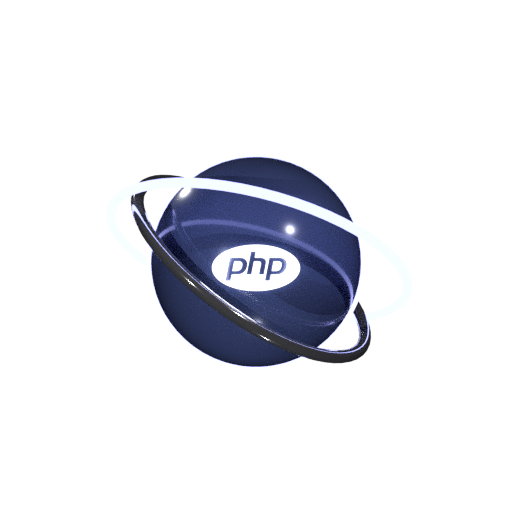
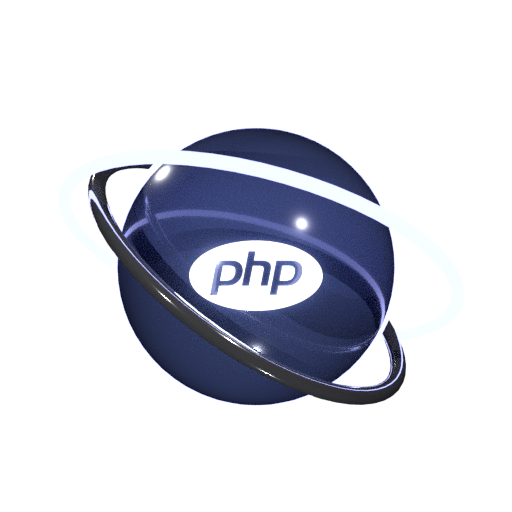
feat(orrery): scale up 3d planet assets and dom nodes for grander visibility

Changed region(s): [[0.1562, 0.25, 0.8125, 0.8125]]

diff --git a/resources/js/orrery-gallery.js b/resources/js/orrery-gallery.js
@@ -211,8 +211,8 @@ export const initOrreryGallery = () => {
         btn.type = 'button';
         btn.className = 'orrery-node group absolute rounded-full cursor-pointer transition-transform duration-300 focus:outline-none select-none';
         btn.setAttribute('aria-label', `Fokus teknologi ${tech.name}`);
-        btn.style.width = '70px';
-        btn.style.height = '70px';
+        btn.style.width = '88px';
+        btn.style.height = '88px';
         btn.style.transform = 'translate(-50%, -50%)';
 
         btn.innerHTML = `
@@ -254,25 +254,25 @@ export const initOrreryGallery = () => {
         centerX = stageWidth / 2;
         if (stageWidth < 480) {
             orbitWidth = stageWidth * 0.44;
-            orbitHeight = 120;
+            orbitHeight = 125;
             centerY = stageHeight * 0.44;
         } else if (stageWidth < 768) {
             orbitWidth = stageWidth * 0.42;
-            orbitHeight = 135;
+            orbitHeight = 138;
             centerY = stageHeight * 0.44;
         } else if (stageWidth < 1024) {
             orbitWidth = Math.min(390, stageWidth * 0.38);
-            orbitHeight = 145;
+            orbitHeight = 148;
             centerY = stageHeight * 0.44;
         } else {
             orbitWidth = Math.min(460, stageWidth * 0.38);
-            orbitHeight = 155;
+            orbitHeight = 165;
             centerY = stageHeight * 0.44;
         }
 
         // Dynamically adjust node element size for mobile vs desktop
         const isMobile = stageWidth < 640;
-        const nodeSize = isMobile ? 54 : 70;
+        const nodeSize = isMobile ? 66 : 88;
         nodeElements.forEach(({ el }) => {
             el.style.width = `${nodeSize}px`;
             el.style.height = `${nodeSize}px`;
@@ -357,8 +357,8 @@ export const initOrreryGallery = () => {
                     <div class="orrery-core-glow" style="background: radial-gradient(circle, ${tech.color}45, transparent 70%);"></div>
 
                     <!-- Focal Central 3D Planetary Orb -->
-                    <div class="orrery-core-orb-3d relative z-10 w-20 h-20 sm:w-24 sm:h-24 flex items-center justify-center filter drop-shadow-[0_8px_20px_rgba(15,23,42,0.14)] transition-transform duration-300 hover:scale-105">
-                        <img src="${tech.orbImg}" alt="${tech.name} 3D Planetary Orb" width="96" height="96" class="w-full h-full object-contain pointer-events-none select-none" loading="eager" decoding="async" onerror="this.onerror=null; this.src='${tech.orbImg.replace('.webp', '.png')}';">
+                    <div class="orrery-core-orb-3d relative z-10 w-28 h-28 sm:w-36 sm:h-36 flex items-center justify-center filter drop-shadow-[0_8px_24px_rgba(15,23,42,0.16)] transition-transform duration-300 hover:scale-105">
+                        <img src="${tech.orbImg}" alt="${tech.name} 3D Planetary Orb" width="144" height="144" class="w-full h-full object-contain pointer-events-none select-none" loading="eager" decoding="async" onerror="this.onerror=null; this.src='${tech.orbImg.replace('.webp', '.png')}';">
                     </div>
 
                     <!-- Tech Identification & High-Contrast Legible Dark Typography -->

diff --git a/resources/css/app.css b/resources/css/app.css
@@ -505,19 +505,19 @@
     .orrery-orbit-container {
         position: relative;
         width: 100%;
-        height: 520px;
+        height: 530px;
         cursor: grab;
     }
 
     @media (min-width: 640px) {
         .orrery-orbit-container {
-            height: 560px;
+            height: 580px;
         }
     }
 
     @media (min-width: 1024px) {
         .orrery-orbit-container {
-            height: 600px;
+            height: 620px;
         }
     }
 
@@ -549,7 +549,7 @@
         position: absolute;
         left: 0;
         right: 0;
-        top: 38%;
+        top: 36%;
         transform: translateY(-50%);
         display: flex;
         justify-content: center;
@@ -579,11 +579,11 @@
         top: 25%;
         left: 50%;
         transform: translate(-50%, -50%);
-        width: 130px;
-        height: 130px;
+        width: 170px;
+        height: 170px;
         border-radius: 9999px;
         pointer-events: none;
-        filter: blur(28px);
+        filter: blur(32px);
         transition: background 350ms ease;
     }
 

diff --git a/scripts/generate_blender_orbs.py b/scripts/generate_blender_orbs.py
@@ -135,13 +135,13 @@ def render_orbs():
         bg.inputs['Strength'].default_value = 0.1
         scene.world = world
 
-        # Camera setup: 50mm, distance -6.8m (20%+ safe margin on all sides, ZERO clipping on gyro rings)
+        # Camera setup: 50mm, distance -5.2m (Closer, larger, grander view with safe ~50px margins on all sides)
         cam_data = bpy.data.cameras.new('Camera')
         cam_data.lens = 50
         cam_obj = bpy.data.objects.new('Camera', cam_data)
         scene.collection.objects.link(cam_obj)
         scene.camera = cam_obj
-        cam_obj.location = (0, -6.8, 0.35)
+        cam_obj.location = (0, -5.2, 0.30)
         cam_obj.rotation_euler = (math.radians(87.5), 0, 0)
 
         # 4-Point Studio Lighting for strong, genuine 3D spherical depth, specular curvature & metallic gleam
@@ -201,8 +201,8 @@ def render_orbs():
         g_mat.node_tree.links.new(em.outputs['Emission'], out.inputs['Surface'])
         glow_ring.data.materials.append(g_mat)
 
-        # 3. Front Tech Emblem: BOLD & PROMINENT (Size = 1.05 - fills the sphere face)
-        bpy.ops.mesh.primitive_plane_add(size=1.05, location=(0, -1.006, 0))
+        # 3. Front Tech Emblem: BOLD & PROMINENT (Size = 1.15 - fills the sphere face)
+        bpy.ops.mesh.primitive_plane_add(size=1.15, location=(0, -1.006, 0))
         logo_plane = bpy.context.active_object
         logo_plane.rotation_euler = (math.radians(90), 0, 0)
         logo_plane.visible_shadow = False
